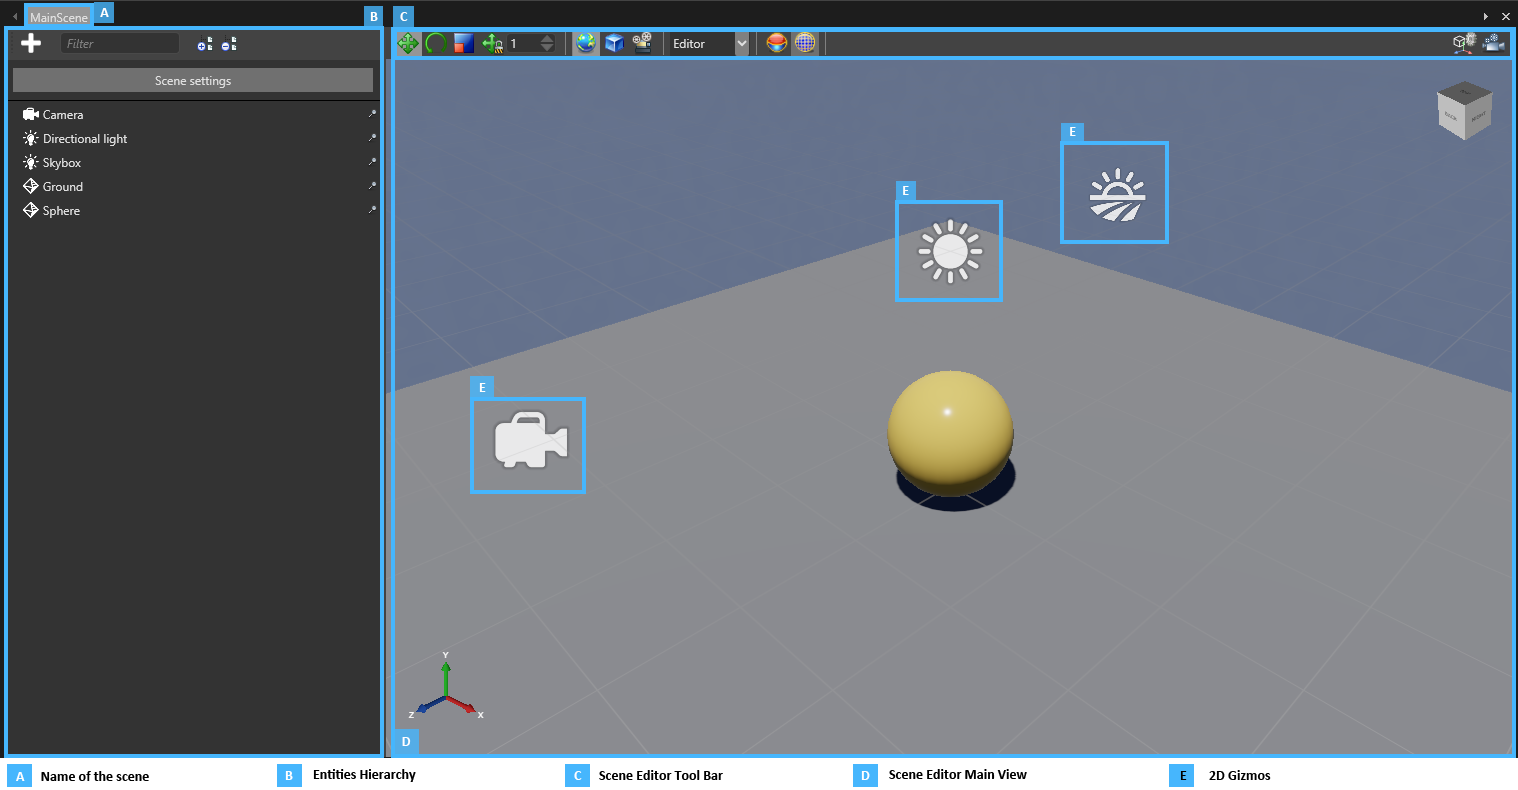
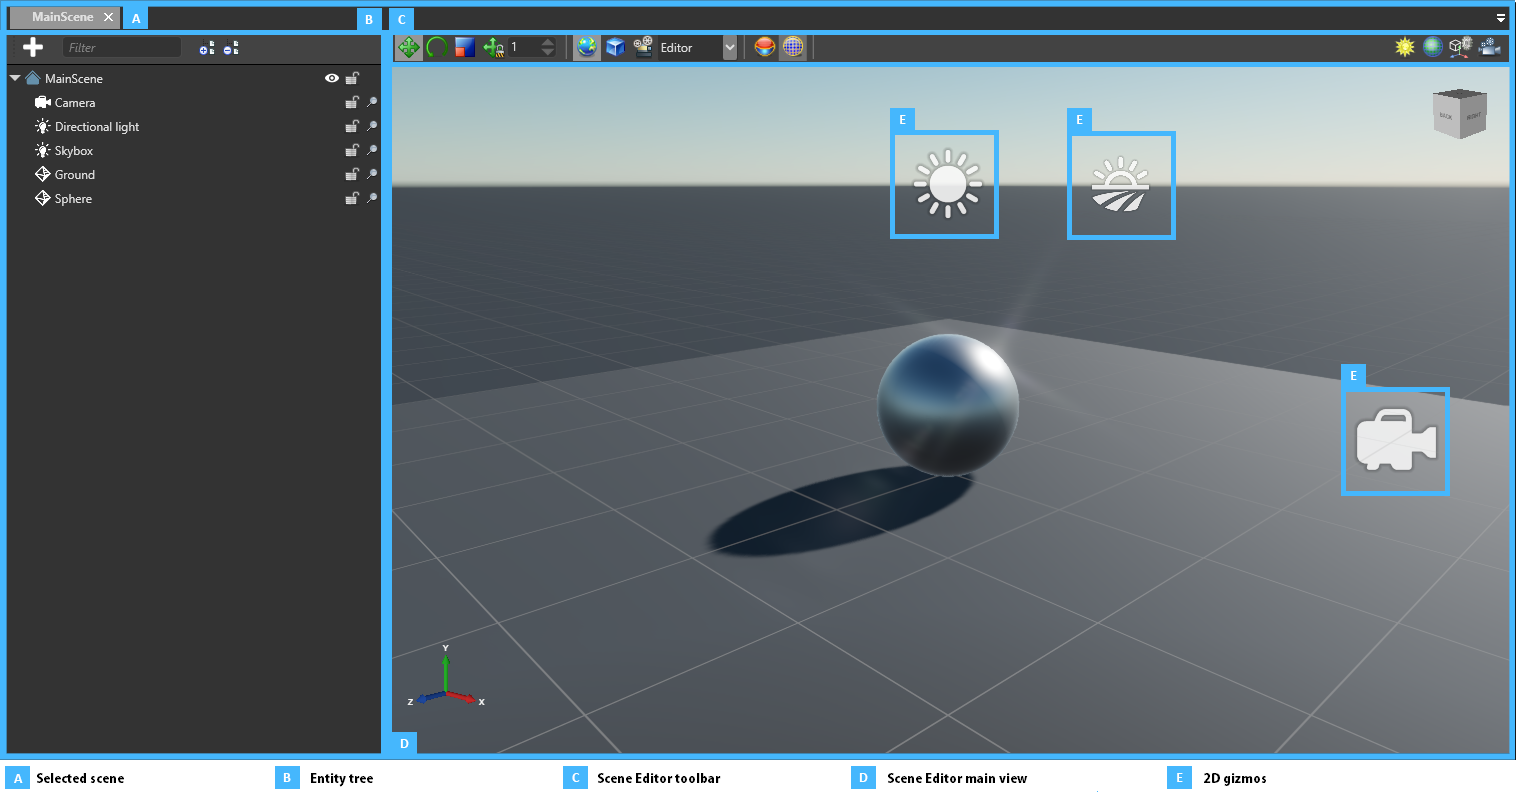
[Game Studio] update screenshots with new default scene / UI

diff --git a/manual/game-studio/create-a-scene.md b/manual/game-studio/create-a-scene.md
@@ -38,7 +38,7 @@ In the **asset view**:
 
 ## Use the scene editor
 
-![Scene editor](media/create-a-scene-default-scene-editor.png)
+![Scene editor](media/create-a-scene-default-scene-editor.jpg)
 
 The **scene editor tabs** (A) display the open scenes. You can switch between open scenes using the tabs.
 
